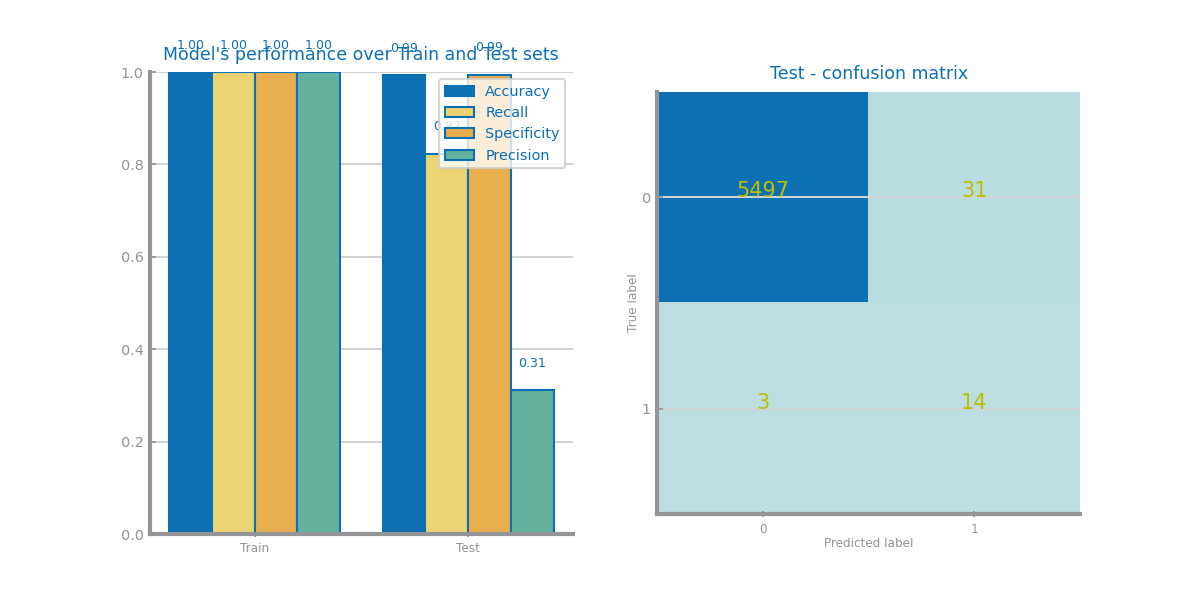
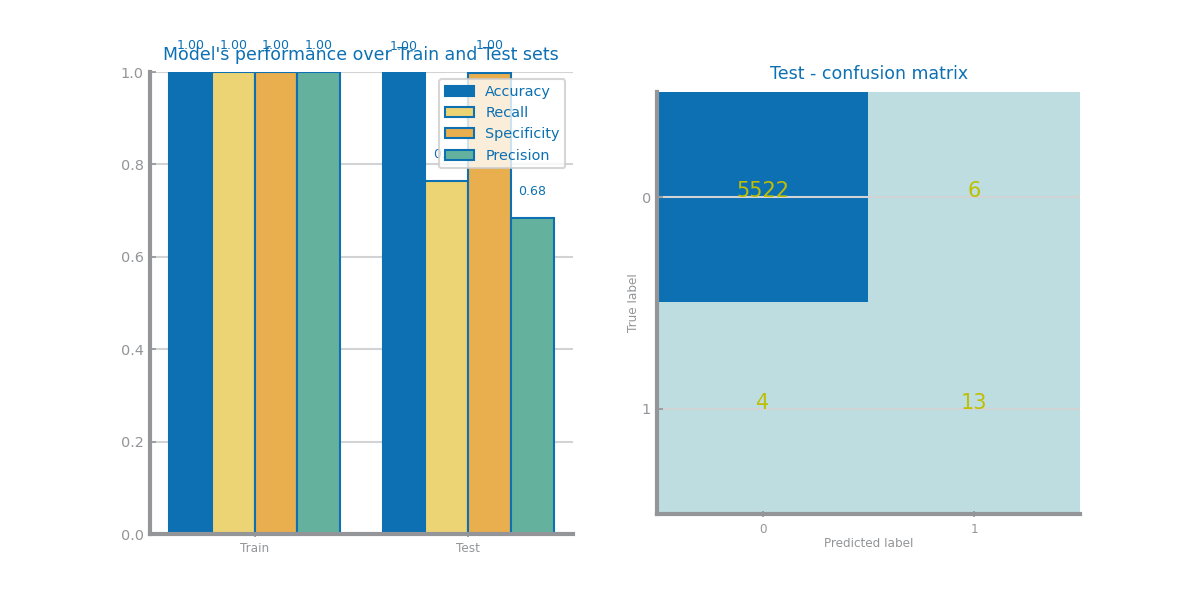
images

diff --git a/lab03_knn_and_scaling/set2_knn_study_overfitting_lab05.py b/lab03_knn_and_scaling/set2_knn_study_overfitting_lab05.py
@@ -2,7 +2,7 @@
 # make sample
 
 # change sample in percentage here
-sample = 0.01
+sample = 0.005
 
 from numpy import ndarray
 from pandas import DataFrame, read_csv, unique
@@ -10,7 +10,8 @@ from matplotlib.pyplot import figure, savefig, show
 from sklearn.neighbors import KNeighborsClassifier
 from ds_charts import plot_evaluation_results, multiple_line_chart
 from sklearn.metrics import accuracy_score
-
+from sklearn.metrics import f1_score
+import matplotlib.pyplot as plt
 
 
 def KNN(file_tag, filename_train, filename_test, s):
@@ -33,22 +34,44 @@ def KNN(file_tag, filename_train, filename_test, s):
     values = {}
     best = (0, '')
     last_best = 0
+    f1_scores_test = []
+    f1_scores_train = []
     for d in dist:
         yvalues = []
         for n in nvalues:
             knn = KNeighborsClassifier(n_neighbors=n, metric=d)
             knn.fit(trnX, trnY)
             prdY = knn.predict(tstX)
-            yvalues.append(accuracy_score(tstY, prdY))
+            prdtrainY = knn.predict(trnX)
+            #yvalues.append(accuracy_score(tstY, prdY))
+            yvalues.append(f1_score(tstY, prdY))
+            f1_scores_test.append(f1_score(tstY, prdY))
+            f1_scores_train.append(f1_score(trnY, prdtrainY))
             if yvalues[-1] > last_best:
                 best = (n, d)
                 last_best = yvalues[-1]
         values[d] = yvalues
 
+    x = nvalues
+    y = f1_scores_test[:10]
+    y2 = f1_scores_train[:10]
+
+    fig, ax = plt.subplots()
+
+    ax.plot(x, y)
+    ax.plot(x, y2)
+    ax.set_title('Overfit KNN')
+    ax.set_xlabel('n')
+    ax.set_ylabel('f1-score')
+    #ax = set_elements(ax=ax, title= 'Overfit KNN', xlabel='n', ylabel='f1-score')
+    ax.legend(['test', 'train'])
+    savefig(f'lab05_decision_trees_and_overfitting\images\set2\{file_tag}_knn_overfit.png')
+    plt.show()
+
     figure()
     multiple_line_chart(nvalues, values, title='KNN variants', xlabel='n', ylabel='accuracy', percentage=True)
-    savefig(f'lab03_knn_and_scaling\images\{file_tag}_knn_study.png')
-    #show()
+    #savefig(f'lab03_knn_and_scaling\images\{file_tag}_knn_study.png')
+    show()
     print('Best results with %d neighbors and %s'%(best[0], best[1]))
 
     clf = knn = KNeighborsClassifier(n_neighbors=best[0], metric=best[1])
@@ -56,22 +79,22 @@ def KNN(file_tag, filename_train, filename_test, s):
     prd_trn = clf.predict(trnX)
     prd_tst = clf.predict(tstX)
     plot_evaluation_results(labels, trnY, prd_trn, tstY, prd_tst)
-    savefig(f'lab03_knn_and_scaling\images\{file_tag}_knn_best.png')
-    #show()
+    #savefig(f'lab03_knn_and_scaling\images\{file_tag}_knn_best.png')
+    show()
 
 # Run KNN for all different codes NB: add test sets before running
 #KNN('set2', 'lab04_naive_bayes_and_balancing\data\set2\set2_train.csv', 'lab04_naive_bayes_and_balancing\data\set2\set2_test.csv', sample)
-KNN('set2_scaled', 'lab04_naive_bayes_and_balancing\data\set2\set2_train_scaled.csv', 'lab04_naive_bayes_and_balancing\data\set2\set2_test_scaled.csv', sample)
+#KNN('set2_scaled', 'lab04_naive_bayes_and_balancing\data\set2\set2_train_scaled.csv', 'lab04_naive_bayes_and_balancing\data\set2\set2_test_scaled.csv', sample)
 
 test_set_scaled = 'lab04_naive_bayes_and_balancing\data\set2\set2_test_scaled.csv'
-KNN('set2_scaled_over', 'lab04_naive_bayes_and_balancing\data\set2\set2_over_scaled.csv', test_set_scaled, sample)
-KNN('set2_scaled_under', 'lab04_naive_bayes_and_balancing\data\set2\set2_under_scaled.csv', test_set_scaled, 1)
+#KNN('set2_scaled_over', 'lab04_naive_bayes_and_balancing\data\set2\set2_over_scaled.csv', test_set_scaled, sample)
+#KNN('set2_scaled_under', 'lab04_naive_bayes_and_balancing\data\set2\set2_under_scaled.csv', test_set_scaled, 1)
 KNN('set2_scaled_smote', 'lab04_naive_bayes_and_balancing\data\set2\set2_smote_scaled.csv', test_set_scaled, sample)
 
 #train: DataFrame = read_csv(f'{'lab04_naive_bayes_and_balancing\data\set1\scaled_over.csv'}')
 #print(train.info())
 
 test_set_unscaled = 'lab04_naive_bayes_and_balancing\data\set2\set2_test.csv'
-KNN('set2_unscaled_over', 'lab04_naive_bayes_and_balancing\data\set2\set2_over.csv', test_set_unscaled, sample)
-KNN('set2_unscaled_under', 'lab04_naive_bayes_and_balancing\data\set2\set2_under.csv', test_set_unscaled, 1)
-KNN('set2_unscaled_smote', 'lab04_naive_bayes_and_balancing\data\set2\set2_smote.csv', test_set_unscaled, sample)
+# KNN('set2_unscaled_over', 'lab04_naive_bayes_and_balancing\data\set2\set2_over.csv', test_set_unscaled, sample)
+# KNN('set2_unscaled_under', 'lab04_naive_bayes_and_balancing\data\set2\set2_under.csv', test_set_unscaled, 1)
+# KNN('set2_unscaled_smote', 'lab04_naive_bayes_and_balancing\data\set2\set2_smote.csv', test_set_unscaled, sample)

diff --git a/lab05_decision_trees_and_overfitting/set1_overfitting.py b/lab05_decision_trees_and_overfitting/set1_overfitting.py
@@ -1,0 +1,111 @@
+from numpy import ndarray
+from pandas import DataFrame, read_csv, unique
+from matplotlib.pyplot import figure, subplots, savefig, show
+from sklearn.tree import DecisionTreeClassifier
+from ds_charts import plot_evaluation_results, multiple_line_chart, plot_line
+from sklearn.metrics import accuracy_score, precision_score, recall_score, f1_score
+import matplotlib.pyplot as plt
+
+file_tag = 'set1'
+filename = 'lab03_knn_and_scaling/ew_data/set1'
+target = 'PERSON_INJURY'
+
+#train: DataFrame = read_csv(f'lab04_naive_bayes_and_balancing/data/scaled_smote.csv')
+train: DataFrame = read_csv(f'lab04_naive_bayes_and_balancing\data\set1\scaled_smote.csv')
+
+trnY: ndarray = train.pop(target).values
+trnX: ndarray = train.values
+labels = unique(trnY)
+labels.sort()
+
+test: DataFrame = read_csv(f'{filename}_test_scaled.csv')
+tstY: ndarray = test.pop(target).values
+tstX: ndarray = test.values
+
+min_impurity_decrease = [0.0001]
+max_depths = [2, 5, 10, 15, 20, 25, 30, 35, 40, 45]
+criteria = ['entropy', 'gini']
+best = ('',  0, 0.0)
+last_best = 0
+best_model = None
+
+figure()
+fig, axs = subplots(1, 2, figsize=(16, 4), squeeze=False)
+f1_scores_test = []
+f1_scores_train = []
+for k in range(len(criteria)):
+    f = criteria[k]
+    values = {}
+    for d in max_depths:
+        yvalues = []
+        for imp in min_impurity_decrease:
+            tree = DecisionTreeClassifier(max_depth=d, criterion=f, min_impurity_decrease=imp)
+            tree.fit(trnX, trnY)
+            prdY = tree.predict(tstX)
+            prdtrainY = tree.predict(trnX)
+            #yvalues.append(accuracy_score(tstY, prdY))
+            yvalues.append(f1_score(tstY, prdY))
+            f1_scores_test.append(f1_score(tstY, prdY))
+            f1_scores_train.append(f1_score(trnY, prdtrainY))
+            yvalues.append(f1_score(tstY, prdY))
+            if yvalues[-1] > last_best:
+                best = (f, d, imp)
+                last_best = yvalues[-1]
+                best_model = tree
+
+        values[d] = yvalues
+    #multiple_line_chart(min_impurity_decrease, values, ax=axs[0, k], title=f'Decision Trees with {f} criteria',
+    #                       xlabel='min_impurity_decrease', ylabel='precision_score', percentage=True)
+
+    x = max_depths
+    y = f1_scores_test[:10]
+    y2 = f1_scores_train[:10]
+
+    fig, ax = plt.subplots()
+
+    ax.plot(x, y)
+    ax.plot(x, y2)
+    ax.set_title('Overfit decision tree')
+    ax.set_xlabel('tree depth')
+    ax.set_ylabel('f1-score')
+    #ax = set_elements(ax=ax, title= 'Overfit KNN', xlabel='n', ylabel='f1-score')
+    ax.legend(['test', 'train'])
+    savefig(f'lab05_decision_trees_and_overfitting\images\set1\{file_tag}_tree_overfit.png')
+
+    plt.show()
+    
+savefig(f'lab05_decision_trees_and_overfitting/images/{file_tag}/{file_tag}_dt_study_precision.png')
+show()
+print('Best results achieved with %s criteria, depth=%d and min_impurity_decrease=%1.6f ==> accuracy=%1.2f'%(best[0], best[1], best[2], last_best))
+
+# from sklearn import tree
+
+# labels = [str(value) for value in labels]
+# tree.plot_tree(best_model, feature_names=train.columns, class_names=labels)
+# savefig(f'lab05_decision_trees_and_overfitting/images/{file_tag}/{file_tag}_dt_best_tree.png')
+# show()
+
+prd_trn = best_model.predict(trnX)
+prd_tst = best_model.predict(tstX)
+plot_evaluation_results(labels, trnY, prd_trn, tstY, prd_tst)
+savefig(f'lab05_decision_trees_and_overfitting/images/{file_tag}/{file_tag}_dt_best.png')
+show()
+
+from numpy import argsort, arange
+from ds_charts import horizontal_bar_chart
+from matplotlib.pyplot import Axes
+
+variables = train.columns
+importances = best_model.feature_importances_
+indices = argsort(importances)[::-1]
+elems = []
+imp_values = []
+for f in range(len(variables)):
+    elems += [variables[indices[f]]]
+    imp_values += [importances[indices[f]]]
+    print(f'{f+1}. feature {elems[f]} ({importances[indices[f]]})')
+
+figure()
+horizontal_bar_chart(elems, imp_values, error=None, title='Decision Tree Features importance', xlabel='importance', ylabel='variables')
+savefig(f'lab05_decision_trees_and_overfitting/images/{file_tag}/{file_tag}_dt_ranking.png')
+show()

diff --git a/lab05_decision_trees_and_overfitting/set2_overfitting.py b/lab05_decision_trees_and_overfitting/set2_overfitting.py
@@ -1,0 +1,114 @@
+from numpy import ndarray
+from pandas import DataFrame, read_csv, unique
+from matplotlib.pyplot import figure, subplots, savefig, show
+from sklearn.tree import DecisionTreeClassifier
+from ds_charts import plot_evaluation_results, multiple_line_chart
+from sklearn.metrics import accuracy_score, f1_score
+import matplotlib.pyplot as plt
+
+file_tag = 'set2'
+filename = 'lab03_knn_and_scaling/ew_data/set2'
+target = 'ALARM'
+
+train: DataFrame = read_csv(f'lab04_naive_bayes_and_balancing\data\set2\set2_smote_scaled.csv')
+trnY: ndarray = train.pop(target).values
+trnX: ndarray = train.values
+labels = unique(trnY)
+labels.sort()
+
+test: DataFrame = read_csv(f'lab04_naive_bayes_and_balancing\data\set2\set2_test_scaled.csv')
+tstY: ndarray = test.pop(target).values
+tstX: ndarray = test.values
+
+min_impurity_decrease = [0.00001]
+max_depths = [2, 5, 10, 15, 20, 25]
+criteria = ['entropy', 'gini']
+best = ('',  0, 0.0)
+last_best = 0
+best_model = None
+
+figure()
+fig, axs = subplots(1, 2, figsize=(16, 4), squeeze=False)
+f1_scores_test = []
+f1_scores_train = []
+for k in range(len(criteria)):
+    f = criteria[k]
+    values = {}
+    for d in max_depths:
+        yvalues = []
+        for imp in min_impurity_decrease:
+            tree = DecisionTreeClassifier(max_depth=d, criterion=f, min_impurity_decrease=imp)
+            tree.fit(trnX, trnY)
+            prdY = tree.predict(tstX)
+            prdtrainY = tree.predict(trnX)
+            #yvalues.append(accuracy_score(tstY, prdY))
+            yvalues.append(f1_score(tstY, prdY))
+            f1_scores_test.append(f1_score(tstY, prdY))
+            f1_scores_train.append(f1_score(trnY, prdtrainY))
+            yvalues.append(f1_score(tstY, prdY))
+            prdY = tree.predict(tstX)
+            yvalues.append(f1_score(tstY, prdY))
+            if yvalues[-1] > last_best:
+                best = (f, d, imp)
+                last_best = yvalues[-1]
+                best_model = tree
+
+        values[d] = yvalues
+    
+    x = max_depths
+    y = f1_scores_test[:6]
+    y2 = f1_scores_train[:6]
+
+    fig, ax = plt.subplots()
+
+    ax.plot(x, y)
+    ax.plot(x, y2)
+    ax.set_title('Overfit decision tree')
+    ax.set_xlabel('tree depth')
+    ax.set_ylabel('f1-score')
+    #ax = set_elements(ax=ax, title= 'Overfit KNN', xlabel='n', ylabel='f1-score')
+    ax.legend(['test', 'train'])
+    savefig(f'lab05_decision_trees_and_overfitting\images\set2\{file_tag}_tree_overfit.png')
+
+    plt.show()
+
+    #multiple_line_chart(min_impurity_decrease, values, ax=axs[0, k], title=f'Decision Trees with {f} criteria',
+    #                       xlabel='min_impurity_decrease', ylabel='accuracy', percentage=True)
+savefig(f'lab05_decision_trees_and_overfitting/images/{file_tag}/{file_tag}_dt_study.png')
+show()
+print('Best results achieved with %s criteria, depth=%d and min_impurity_decrease=%1.6f ==> accuracy=%1.2f'%(best[0], best[1], best[2], last_best))
+
+# from sklearn import tree
+
+# labels = [str(value) for value in labels]
+# tree.plot_tree(best_model, feature_names=train.columns, class_names=labels)
+# savefig(f'lab05_decision_trees_and_overfitting/images/{file_tag}/{file_tag}_dt_best_tree.png')
+# show()
+
+
+prd_trn = best_model.predict(trnX)
+prd_tst = best_model.predict(tstX)
+plot_evaluation_results(labels, trnY, prd_trn, tstY, prd_tst)
+savefig(f'lab05_decision_trees_and_overfitting/images/{file_tag}/{file_tag}_dt_best.png')
+show()
+
+
+from numpy import argsort, arange
+from ds_charts import horizontal_bar_chart
+from matplotlib.pyplot import Axes
+
+variables = train.columns
+importances = best_model.feature_importances_
+indices = argsort(importances)[::-1]
+elems = []
+imp_values = []
+for f in range(len(variables)):
+    elems += [variables[indices[f]]]
+    imp_values += [importances[indices[f]]]
+    print(f'{f+1}. feature {elems[f]} ({importances[indices[f]]})')
+
+figure()
+horizontal_bar_chart(elems, imp_values, error=None, title='Decision Tree Features importance', xlabel='importance', ylabel='variables')
+savefig(f'lab05_decision_trees_and_overfitting/images/{file_tag}/{file_tag}_dt_ranking.png')
+
+show()

diff --git a/lab03_knn_and_scaling/set1_knn_study.py b/lab03_knn_and_scaling/set1_knn_study.py
@@ -2,7 +2,7 @@
 # make sample
 
 # change sample in percentage here
-sample = 0.05
+sample = 1
 
 from numpy import ndarray
 from pandas import DataFrame, read_csv, unique
@@ -48,7 +48,7 @@ def KNN(file_tag, filename_train, filename_test, s):
     figure()
     multiple_line_chart(nvalues, values, title='KNN variants', xlabel='n', ylabel='accuracy', percentage=True)
     savefig(f'lab03_knn_and_scaling\images\{file_tag}_knn_study.png')
-    show()
+    #show()
     print('Best results with %d neighbors and %s'%(best[0], best[1]))
 
     clf = knn = KNeighborsClassifier(n_neighbors=best[0], metric=best[1])
@@ -57,7 +57,7 @@ def KNN(file_tag, filename_train, filename_test, s):
     prd_tst = clf.predict(tstX)
     plot_evaluation_results(labels, trnY, prd_trn, tstY, prd_tst)
     savefig(f'lab03_knn_and_scaling\images\{file_tag}_knn_best.png')
-    show()
+    #show()
 
 # Run KNN for all different codes NB: add test sets before running
 #KNN('set1', 'lab03_knn_and_scaling\ew_data\set1', sample)
@@ -73,5 +73,5 @@ test_set_scaled = 'lab03_knn_and_scaling\ew_data\set1_test_scaled.csv'
 
 test_set_unscaled = 'lab03_knn_and_scaling\ew_data\set1_test.csv'
 #KNN('set1_unscaled_over', 'lab04_naive_bayes_and_balancing\data\set1\over.csv', test_set_unscaled, sample)
-KNN('set1_unscaled_under', 'lab04_naive_bayes_and_balancing\data\set1\d_under.csv', test_set_unscaled, 1)
+#KNN('set1_unscaled_under', 'lab04_naive_bayes_and_balancing\data\set1\d_under.csv', test_set_unscaled, 1)
 #KNN('set1_unscaled_smote', 'lab04_naive_bayes_and_balancing\data\set1\smote.csv', test_set_unscaled, sample)

diff --git a/lab04_naive_bayes_and_balancing/set1_comparison.py b/lab04_naive_bayes_and_balancing/set1_comparison.py
@@ -1,0 +1,14 @@
+from numpy import ndarray
+from pandas import DataFrame, read_csv, unique
+from matplotlib.pyplot import figure, savefig, show
+from sklearn.naive_bayes import GaussianNB
+from ds_charts import plot_evaluation_results, bar_chart
+
+xvalues =  [ 'original', 'balanced', 'undersampled', 'oversampled', 'smote', 'balanced undersampled', 'balanced oversampled', 'balanced smote']
+#yvalues =  [1,1, 0.96, 1, 1, 0.98, 1, 1]
+yvalues =  [0.99 , 0.94, 0.94, 0.99, 0.98, 0.97, 0.95, 0.96]
+
+figure()
+bar_chart(xvalues, yvalues, title='Comparison of KNN Models', ylabel='accuracy', percentage=True)
+savefig(f'lab04_naive_bayes_and_balancing\images')
+show()

diff --git a/lab03_knn_and_scaling/set1_knn_study_overfitting_lab05.py b/lab03_knn_and_scaling/set1_knn_study_overfitting_lab05.py
@@ -2,7 +2,7 @@
 # make sample
 import matplotlib.pyplot as plt
 # change sample in percentage here
-sample = 0.05
+sample = 1
 
 from numpy import ndarray
 from pandas import DataFrame, read_csv, unique
